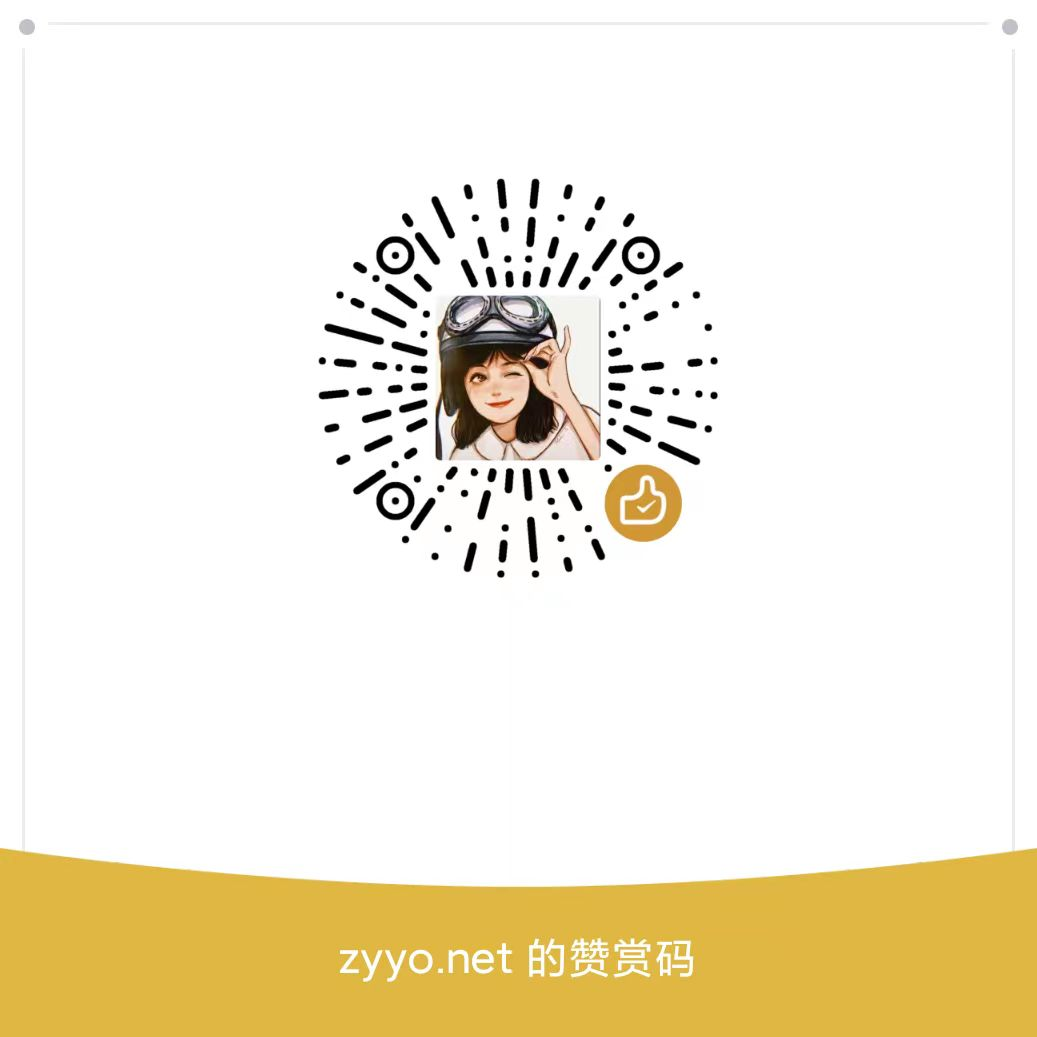
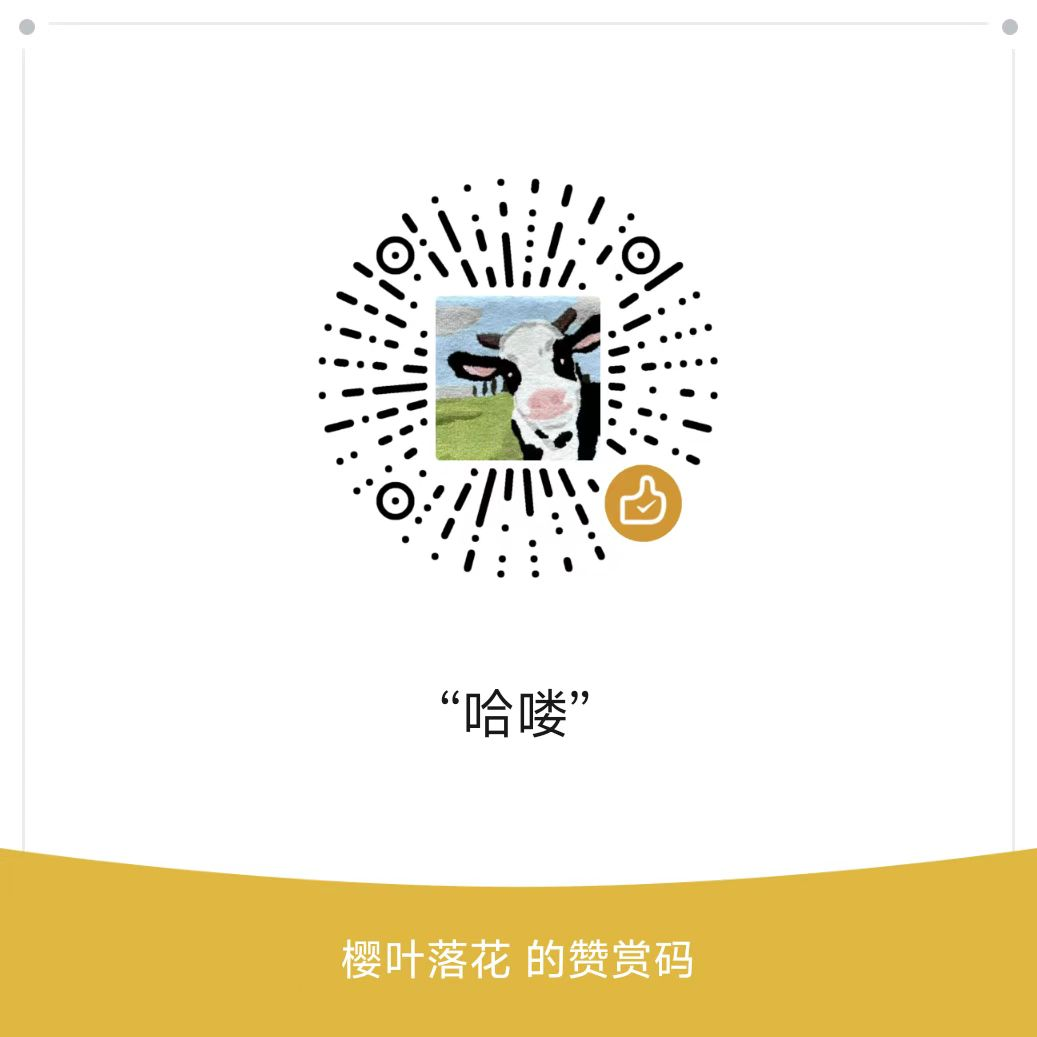
fix sakura

Changed region(s): [[0.3086, 0.1851, 0.6789, 0.5554], [0.3086, 0.8949, 0.6789, 0.9566], [0.432, 0.648, 0.5554, 0.7097]]

diff --git a/sakura/index.html b/sakura/index.html
@@ -1,14 +1,14 @@
 <!DOCTYPE html>
-<html class="zyyo.net">
+<html class="xy-lyh.xyz">
 
-<head class="zyyo.net">
+<head class="xy-lyh.xyz">
 
 	<meta charset="utf-8">
 	<meta http-equiv="X-UA-Compatible" content="IE=edge">
 	<title>
 		Yuhao Liu </title>
 	<link rel="icon" href="./static/img/favicon.ico">
-	<meta name="description" content="整天半吊子和不学无术的坏孩子,梦想成为庄稼地里的读书人.....">
+	<meta name="description" content="A half-baked and unlearned bad kid, dreaming of becoming a scholar in the farmland.....">
 	<meta name="keywords" content="zyyo,张扬YO,ZYYO,张扬主页,ZYYO引导页,zhangyang">
 	<meta name="viewport" content="width=device-width, initial-scale=1.0, maximum-scale=1.0, user-scalable=no">
 	<link rel="stylesheet" href="./static/css/style.css">
@@ -30,80 +30,64 @@
 					src="./static/img/logokuang.png">
 			</div>
 			<div class="left-div left-des">
-				<div class="left-des-item"><svg t="1705773709627" class="icon" viewBox="0 0 1024 1024" version="1.1" xmlns="http://www.w3.org/2000/svg" p-id="1478"><path d="M512 249.976471c-99.388235 0-180.705882 81.317647-180.705882 180.705882s81.317647 180.705882 180.705882 180.705882 180.705882-81.317647 180.705882-180.705882-81.317647-180.705882-180.705882-180.705882z m0 301.17647c-66.258824 0-120.470588-54.211765-120.470588-120.470588s54.211765-120.470588 120.470588-120.470588 120.470588 54.211765 120.470588 120.470588-54.211765 120.470588-120.470588 120.470588z" p-id="1479"></path><path d="M512 39.152941c-216.847059 0-391.529412 174.682353-391.529412 391.529412 0 349.364706 391.529412 572.235294 391.529412 572.235294s391.529412-222.870588 391.529412-572.235294c0-216.847059-174.682353-391.529412-391.529412-391.529412z m0 891.482353C424.658824 873.411765 180.705882 686.682353 180.705882 430.682353c0-183.717647 147.576471-331.294118 331.294118-331.294118s331.294118 147.576471 331.294118 331.294118c0 256-243.952941 442.729412-331.294118 499.952941z" p-id="1480"></path></svg>China-Henan
+				<div class="left-des-item"><svg t="1705773709627" class="icon" viewBox="0 0 1024 1024" version="1.1" xmlns="http://www.w3.org/2000/svg" p-id="1478"><path d="M512 249.976471c-99.388235 0-180.705882 81.317647-180.705882 180.705882s81.317647 180.705882 180.705882 180.705882 180.705882-81.317647 180.705882-180.705882-81.317647-180.705882-180.705882-180.705882z m0 301.17647c-66.258824 0-120.470588-54.211765-120.470588-120.470588s54.211765-120.470588 120.470588-120.470588 120.470588 54.211765 120.470588 120.470588-54.211765 120.470588-120.470588 120.470588z" p-id="1479"></path><path d="M512 39.152941c-216.847059 0-391.529412 174.682353-391.529412 391.529412 0 349.364706 391.529412 572.235294 391.529412 572.235294s391.529412-222.870588 391.529412-572.235294c0-216.847059-174.682353-391.529412-391.529412-391.529412z m0 891.482353C424.658824 873.411765 180.705882 686.682353 180.705882 430.682353c0-183.717647 147.576471-331.294118 331.294118-331.294118s331.294118 147.576471 331.294118 331.294118c0 256-243.952941 442.729412-331.294118 499.952941z" p-id="1480"></path></svg>China-Beijing
 				</div>
-				<div class="left-des-item"><svg t="1705773906032" class="icon" viewBox="0 0 1024 1024" version="1.1" xmlns="http://www.w3.org/2000/svg" p-id="2474"><path d="M729.6 234.666667H294.4V157.866667a51.2 51.2 0 0 1 51.2-51.2h332.8a51.2 51.2 0 0 1 51.2 51.2v76.8z m179.2 51.2a51.2 51.2 0 0 1 51.2 51.2v512a51.2 51.2 0 0 1-51.2 51.2H115.2a51.2 51.2 0 0 1-51.2-51.2v-512a51.2 51.2 0 0 1 51.2-51.2h793.557333z m-768 172.032c0 16.384 13.312 29.696 29.696 29.696h683.008a29.696 29.696 0 1 0 0-59.392H170.410667a29.696 29.696 0 0 0-29.696 29.696z m252.416 118.784c0 16.384 13.312 29.696 29.696 29.696h178.176a29.696 29.696 0 1 0 0-59.392H422.912a29.738667 29.738667 0 0 0-29.696 29.696z" p-id="2475"></path></svg>Sias</div>
+				<div class="left-des-item"><svg t="1705773906032" class="icon" viewBox="0 0 1024 1024" version="1.1" xmlns="http://www.w3.org/2000/svg" p-id="2474"><path d="M729.6 234.666667H294.4V157.866667a51.2 51.2 0 0 1 51.2-51.2h332.8a51.2 51.2 0 0 1 51.2 51.2v76.8z m179.2 51.2a51.2 51.2 0 0 1 51.2 51.2v512a51.2 51.2 0 0 1-51.2 51.2H115.2a51.2 51.2 0 0 1-51.2-51.2v-512a51.2 51.2 0 0 1 51.2-51.2h793.557333z m-768 172.032c0 16.384 13.312 29.696 29.696 29.696h683.008a29.696 29.696 0 1 0 0-59.392H170.410667a29.696 29.696 0 0 0-29.696 29.696z m252.416 118.784c0 16.384 13.312 29.696 29.696 29.696h178.176a29.696 29.696 0 1 0 0-59.392H422.912a29.738667 29.738667 0 0 0-29.696 29.696z" p-id="2475"></path></svg>UCAS</div>
 			</div>
 			<div class="left-div left-tag">
-				<div class="left-tag-item">研一
+				<div class="left-tag-item">Graduate Student
 				</div>
 				<div class="left-tag-item">GTAV
 				</div>
-				<div class="left-tag-item">骑行
+				<div class="left-tag-item">Cycling
 				</div>
 			</div>
 			<div class="left-div left-time">
 				<ul id="line">
 					<li>
 						<div class="focus"></div>
-						<div>敬请期待
-						</div>
-						<div>2024.1</div>
+						<div>Update Homepage</div>
+						<div>2025.8.1</div>
 					</li>
 					<li>
 						<div class="focus"></div>
-						<div>ICP备案成功
-						</div>
-						<div>2023.8</div>
-					</li>
-					<li>
-						<div class="focus"></div>
-						<div>注册域名zyyo.net
-						</div>
-						<div>2023.3</div>
-					</li>
-					<li>
-						<div class="focus"></div>
-						<div>出来后洗心革面
-						</div>
-						<div>2021.2</div>
-					</li>
-					<li>
-						<div class="focus"></div>
-						<div>...
-						</div>
-						<div>...</div>
-					</li>
-					<li>
-						<div class="focus"></div>
-						<div>搭建第一个网站</div>
-						<div>2018.1</div>
+						<div>Build Page</div>
+						<div>2025.7</div>
 					</li>
 				</ul>
 			</div>
 		</div>
 		<div class="zyyo-right">
 			<header>
-				<div class="index-logo" style="background-image: url(./static/img/logo.png);">
+				<div class="index-logo" style="background-image: url(./static/img/logo.jpg);">
 					<img style="position: absolute;top:-15%;left:-10%;width: 120%; aspect-ratio: 1/1;"
 						src="./static/img/logokuang.png">
 				</div>
 				<div class="welcome">
 					Hello I' m <span class="gradientText">
-						Zyyo </span>
+						Yuhao Liu </span>
 				</div>
-				<div class="description">👦 <span class="purpleText">Full Stack</span> Developer
+				<div class="description">🎓  Bachelor <span class="purpleText">Wuhan University</span>
 				</div>
-				<div class="description">📝 The only way to do <span class="purpleText textBackground">great</span> is
-					to <span class="purpleText textBackground">love</span> what you do. </div>
+				<div class="description">🎓 Master <span class="purpleText">University of Chinese Academy of Sciences</span>
+				</div>
+				<!-- <div class="description">📝 樱 
+					<span class="purpleText textBackground">叶</span> 
+					落 
+					<span class="purpleText textBackground">花</span> 
+				</div> -->
 
 				<div class="iconContainer">
-					<a class="iconItem" onclick="" href="https://github.com/ZYYO666">
+					<a class="iconItem" onclick="" href="https://github.com/sea-with-sakura">
 						<svg t="1704870335945" class="icon" viewBox="0 0 1024 1024" version="1.1" xmlns="http://www.w3.org/2000/svg" p-id="2487">
                             <path d="M511.6 76.3C264.3 76.2 64 276.4 64 523.5 64 718.9 189.3 885 363.8 946c23.5 5.9 19.9-10.8 19.9-22.2v-77.5c-135.7 15.9-141.2-73.9-150.3-88.9C215 726 171.5 718 184.5 703c30.9-15.9 62.4 4 98.9 57.9 26.4 39.1 77.9 32.5 104 26 5.7-23.5 17.9-44.5 34.7-60.8-140.6-25.2-199.2-111-199.2-213 0-49.5 16.3-95 48.3-131.7-20.4-60.5 1.9-112.3 4.9-120 58.1-5.2 118.5 41.6 123.2 45.3 33-8.9 70.7-13.6 112.9-13.6 42.4 0 80.2 4.9 113.5 13.9 11.3-8.6 67.3-48.8 121.3-43.9 2.9 7.7 24.7 58.3 5.5 118 32.4 36.8 48.9 82.7 48.9 132.3 0 102.2-59 188.1-200 212.9 23.5 23.2 38.1 55.4 38.1 91v112.5c0.8 9 0 17.9 15 17.9 177.1-59.7 304.6-227 304.6-424.1 0-247.2-200.4-447.3-447.5-447.3z"  p-id="2488"></path>
                         </svg>
 						<div class="iconTip">Github</div>
-					</a><a class="iconItem" onclick="" href="mailto:i@zyyo.net">
+					<a class="iconItem" onclick="" href="https://gitee.com/sakura_lyh">
+						<img src="static/img/gitee-copy.svg" alt="Gitee" style="width: 24px; height: 24px;">
+						<div class="iconTip">Gitee</div>
+					</a>
+					</a><a class="iconItem" onclick="" href="mailto:liu_yu_hao@126.com">
 						<svg t="1704870588438" class="icon" viewBox="0 0 1024 1024" version="1.1" xmlns="http://www.w3.org/2000/svg" p-id="3174" >
                             <path d="M926.47619 355.644952V780.190476a73.142857 73.142857 0 0 1-73.142857 73.142857H170.666667a73.142857 73.142857 0 0 1-73.142857-73.142857V355.644952l304.103619 257.828572a170.666667 170.666667 0 0 0 220.745142 0L926.47619 355.644952zM853.333333 170.666667a74.044952 74.044952 0 0 1 26.087619 4.778666 72.704 72.704 0 0 1 30.622477 22.186667 73.508571 73.508571 0 0 1 10.678857 17.67619c3.169524 7.509333 5.12 15.652571 5.607619 24.210286L926.47619 243.809524v24.380952L559.469714 581.241905a73.142857 73.142857 0 0 1-91.306666 2.901333l-3.632762-2.925714L97.52381 268.190476v-24.380952a72.899048 72.899048 0 0 1 40.155428-65.292191A72.97219 72.97219 0 0 1 170.666667 170.666667h682.666666z"  p-id="3175"></path>
                         </svg>
@@ -114,10 +98,10 @@
                             <path d="M695.437241 163.486897l58.615173-142.30069h-397.24138l66.736552 143.36c-121.82069 53.142069-207.095172 174.433103-207.095172 315.674483 0 28.601379 3.531034 57.202759 10.593103 84.744827l85.627586-21.715862c-5.12-20.48-7.768276-41.666207-7.768275-63.028965 0-141.241379 114.758621-256 256-256s256 114.758621 256 256c0 51.023448-14.830345 100.104828-43.078621 142.300689l73.268965 49.08138c37.958621-56.673103 58.085517-122.88 58.085518-191.382069-0.176552-141.947586-86.686897-264.121379-209.743449-316.733793zM467.508966 91.983448h180.965517l-21.009655 50.846897a348.16 348.16 0 0 0-66.913104-6.708966c-23.834483 0-46.962759 2.471724-69.384827 7.062069l-23.657931-51.2z"  p-id="4989"></path>
                             <path d="M683.431724 427.431724v-70.62069h-38.311724l30.190345-30.190344-49.964138-49.964138-62.49931 62.49931h-6.002759L494.344828 276.656552l-49.787587 49.964138 30.013793 30.190344h-38.311724v70.62069h88.275862v35.310345h-88.275862v70.62069h88.275862v52.965517h70.62069v-52.965517h88.275862v-70.62069h-88.275862v-35.310345z"  p-id="4990"></path>
                         </svg>
-						<div class="iconTip">赞助</div>
-					</a><a class="iconItem" onclick="pop('./static/img/qq.jpg')" href="javascript:void(0)">
+						<div class="iconTip">Sponsor</div>
+					<!-- </a><a class="iconItem" onclick="pop('./static/img/qq.jpg')" href="javascript:void(0)">
 						<svg t="1712319361023" class="icon" viewBox="0 0 1024 1024" version="1.1" xmlns="http://www.w3.org/2000/svg" p-id="1861" ><path d="M824.8 613.2c-16-51.4-34.4-94.6-62.7-165.3C766.5 262.2 689.3 112 511.5 112 331.7 112 256.2 265.2 261 447.9c-28.4 70.8-46.7 113.7-62.7 165.3-34 109.5-23 154.8-14.6 155.8 18 2.2 70.1-82.4 70.1-82.4 0 49 25.2 112.9 79.8 159-26.4 8.1-85.7 29.9-71.6 53.8 11.4 19.3 196.2 12.3 249.5 6.3 53.3 6 238.1 13 249.5-6.3 14.1-23.8-45.3-45.7-71.6-53.8 54.6-46.2 79.8-110.1 79.8-159 0 0 52.1 84.6 70.1 82.4 8.5-1.1 19.5-46.4-14.5-155.8z" p-id="1862"></path></svg>
-						<div class="iconTip">QQ</div>
+						<div class="iconTip">QQ</div> -->
 					</a>  <a class="switch" href="javascript:void(0)">
 						<div class="onoffswitch">
 							<input type="checkbox" name="onoffswitch" class="onoffswitch-checkbox" id="myonoffswitch"
@@ -144,38 +128,19 @@
 				<div class="title"><svg t="1705257422086" class="icon" viewBox="0 0 1024 1024" version="1.1" xmlns="http://www.w3.org/2000/svg" p-id="1891" >
                         <path d="M629.333333 202.666667v213.333333h277.333334v448h-512v-213.333333h-277.333334v-448h512z m213.333334 277.333333h-213.333334v170.666667h-170.666666v149.333333h384v-320z m-277.333334-213.333333h-384v320h213.333334v-170.666667h170.666666v-149.333333z m0 213.333333h-106.666666v106.666667h106.666666v-106.666667z"  p-id="1892"></path>
                     </svg>site </div>
-				<div class="projectList"><a class="projectItem a" target="_blank" href="https://blog.zyyo.net">
+				<div class="projectList"><a class="projectItem a" target="_blank" href="https://blog.xy-lyh.xyz">
 						<div class="projectItemLeft">
-							<h1>博客</h1>
-							<p>记录摆烂日常</p>
+							<h1>Blog</h1>
+							<p>Record daily life</p>
 						</div>
 						<div class="projectItemRight">
 							<img src="./static/img/i1.png" alt="">
 						</div>
 
-					</a><a class="projectItem a" target="_blank" href="https://i.zyyo.cc">
+					</a><a class="projectItem a" target="_blank" href="https://xy-lyh.xyz">
 						<div class="projectItemLeft">
-							<h1>云盘</h1>
-							<p>存储收集文件</p>
-						</div>
-						<div class="projectItemRight">
-							<img src="./static/img/i2.png" alt="">
-						</div>
-
-					</a>
-					<a class="projectItem a" target="_blank" href="https://zyyo.cc">
-						<div class="projectItemLeft">
-							<h1>实验室</h1>
-							<p>收集有趣html作品</p>
-						</div>
-						<div class="projectItemRight">
-							<img src="./static/img/i4.png" alt="">
-						</div>
-
-					</a><a class="projectItem a" target="_blank" href="https://zyyo.cc">
-						<div class="projectItemLeft">
-							<h1>实验室</h1>
-							<p>收集有趣html作品</p>
+							<h1>Lab</h1>
+							<p>Collect interesting HTML works</p>
 						</div>
 						<div class="projectItemRight">
 							<img src="./static/img/i4.png" alt="">
@@ -185,43 +150,23 @@
 				<div class="title"><svg t="1705257422086" class="icon" viewBox="0 0 1024 1024" version="1.1" xmlns="http://www.w3.org/2000/svg" p-id="1891" >
                         <path d="M629.333333 202.666667v213.333333h277.333334v448h-512v-213.333333h-277.333334v-448h512z m213.333334 277.333333h-213.333334v170.666667h-170.666666v149.333333h384v-320z m-277.333334-213.333333h-384v320h213.333334v-170.666667h170.666666v-149.333333z m0 213.333333h-106.666666v106.666667h106.666666v-106.666667z"  p-id="1892"></path>
                     </svg>project </div>
-				<div class="projectList"><a class="projectItem b" target="_blank" href="https://blog.zyyo.net">
+				<div class="projectList"><a class="projectItem b" target="_blank" href="https://blog.xy-lyh.xyz">
 						<div class="projectItemLeft">
-							<h1>博客</h1>
-							<p>记录摆烂日常</p>
+							<h1>Blog</h1>
+							<p>Record daily life</p>
 						</div>
 						<div class="projectItemRight">
 							<img src="./static/img/i1.png" alt="">
 						</div>
 
-					</a><a class="projectItem b" target="_blank" href="https://i.zyyo.cc">
+					</a><a class="projectItem b" target="_blank" href="https://i.xy-lyh.xyz">
 						<div class="projectItemLeft">
-							<h1>云盘</h1>
-							<p>存储收集文件</p>
+							<h1>Cloud Drive</h1>
+							<p>Store collected files</p>
 						</div>
 						<div class="projectItemRight">
 							<img src="./static/img/i2.png" alt="">
 						</div>
-
-					</a>
-					<a class="projectItem b" target="_blank" href="https://zyyo.cc">
-						<div class="projectItemLeft">
-							<h1>实验室</h1>
-							<p>收集有趣html作品</p>
-						</div>
-						<div class="projectItemRight">
-							<img src="./static/img/i4.png" alt="">
-						</div>
-
-					</a><a class="projectItem b" target="_blank" href="https://zyyo.cc">
-						<div class="projectItemLeft">
-							<h1>实验室</h1>
-							<p>收集有趣html作品</p>
-						</div>
-						<div class="projectItemRight">
-							<img src="./static/img/i4.png" alt="">
-						</div>
-
 					</a></div>
 			
 			
